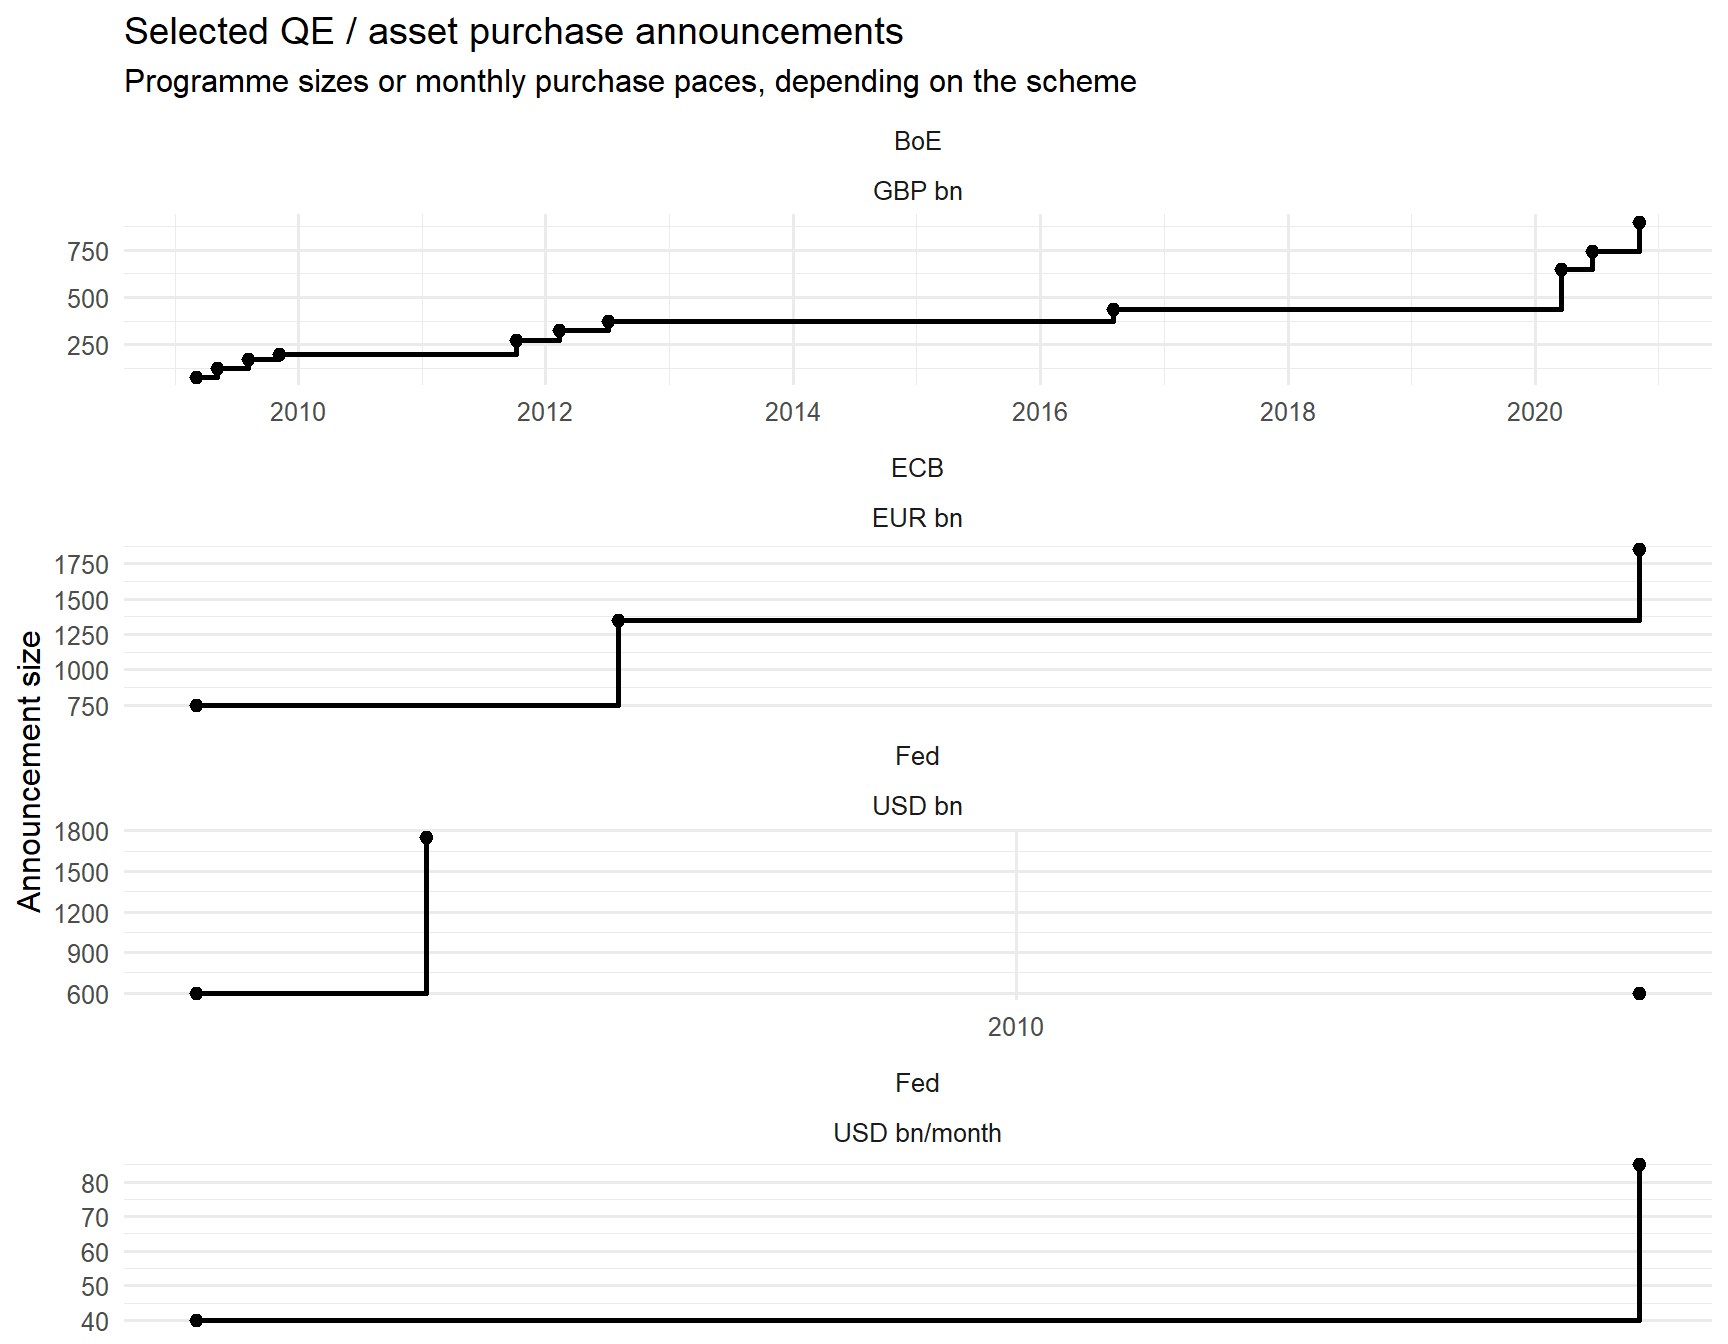
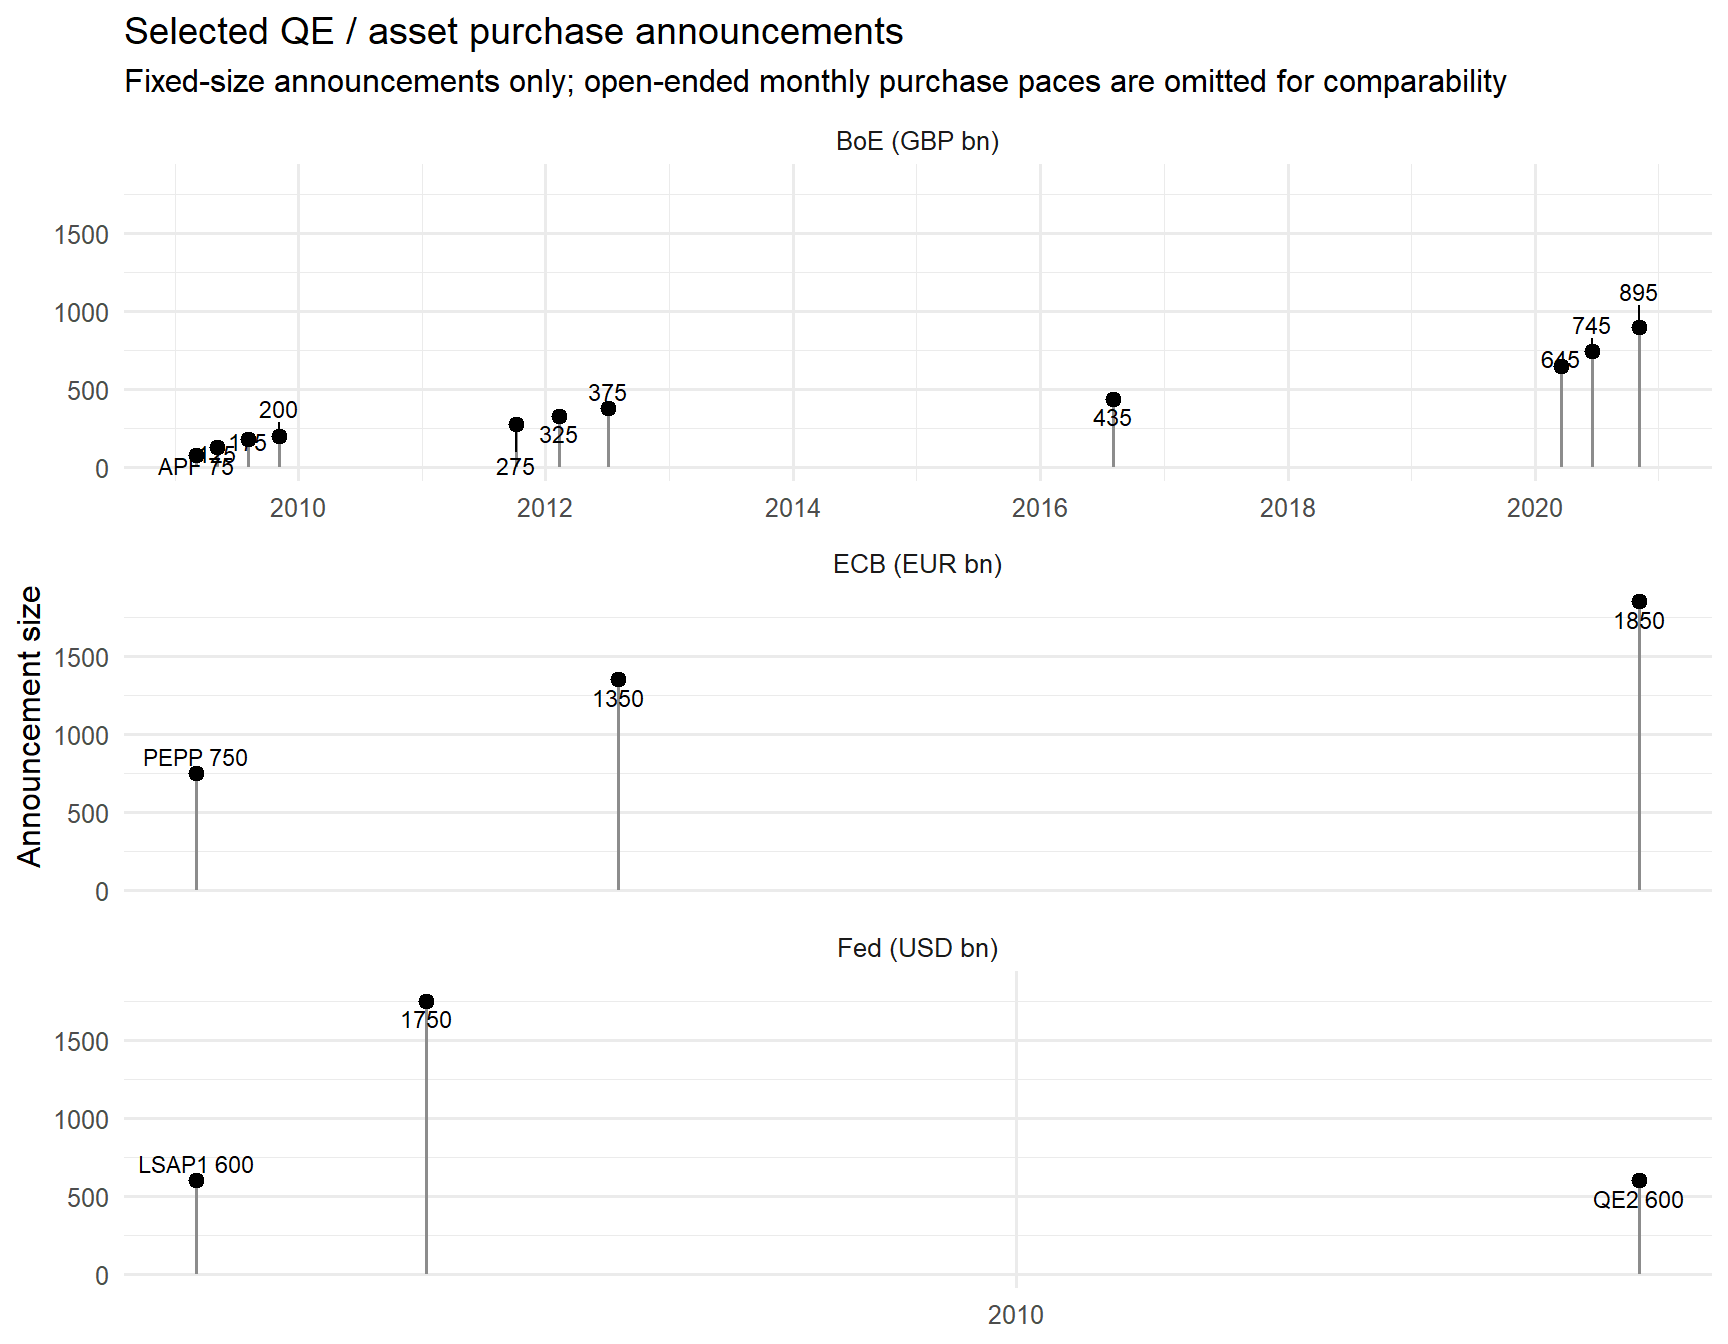
Improve topic 7 QE figure

diff --git a/docs/topic7reading.html b/docs/topic7reading.html
@@ -799,13 +799,13 @@ Figure&nbsp;5: Cross-country policy rates (BoE, ECB, Fed) with key event markers
 </div>
 <div class="cell">
 <div class="cell-output-display">
-<div id="fig-qe" class="quarto-float quarto-figure quarto-figure-center anchored" alt="Step chart of selected asset purchase announcement sizes by central bank">
+<div id="fig-qe" class="quarto-float quarto-figure quarto-figure-center anchored" alt="Faceted event chart of selected QE announcement sizes by central bank">
 <figure class="quarto-float quarto-float-fig figure">
 <div aria-describedby="fig-qe-caption-0ceaefa1-69ba-4598-a22c-09a6ac19f8ca">
-<img src="topic7reading_files/figure-html/fig-qe-1.png" class="img-fluid figure-img" alt="Step chart of selected asset purchase announcement sizes by central bank" width="864">
+<img src="topic7reading_files/figure-html/fig-qe-1.png" class="img-fluid figure-img" alt="Faceted event chart of selected QE announcement sizes by central bank" width="864">
 </div>
 <figcaption class="quarto-float-caption-bottom quarto-float-caption quarto-float-fig" id="fig-qe-caption-0ceaefa1-69ba-4598-a22c-09a6ac19f8ca">
-Figure&nbsp;6: Selected large-scale asset purchase announcements for the BoE, ECB, and Fed, showing how announced programme sizes were expanded over time
+Figure&nbsp;6: Selected fixed-size asset purchase announcements for the BoE, ECB, and Fed, shown as event markers rather than a continuous cumulative series
 </figcaption>
 </figure>
 </div>
